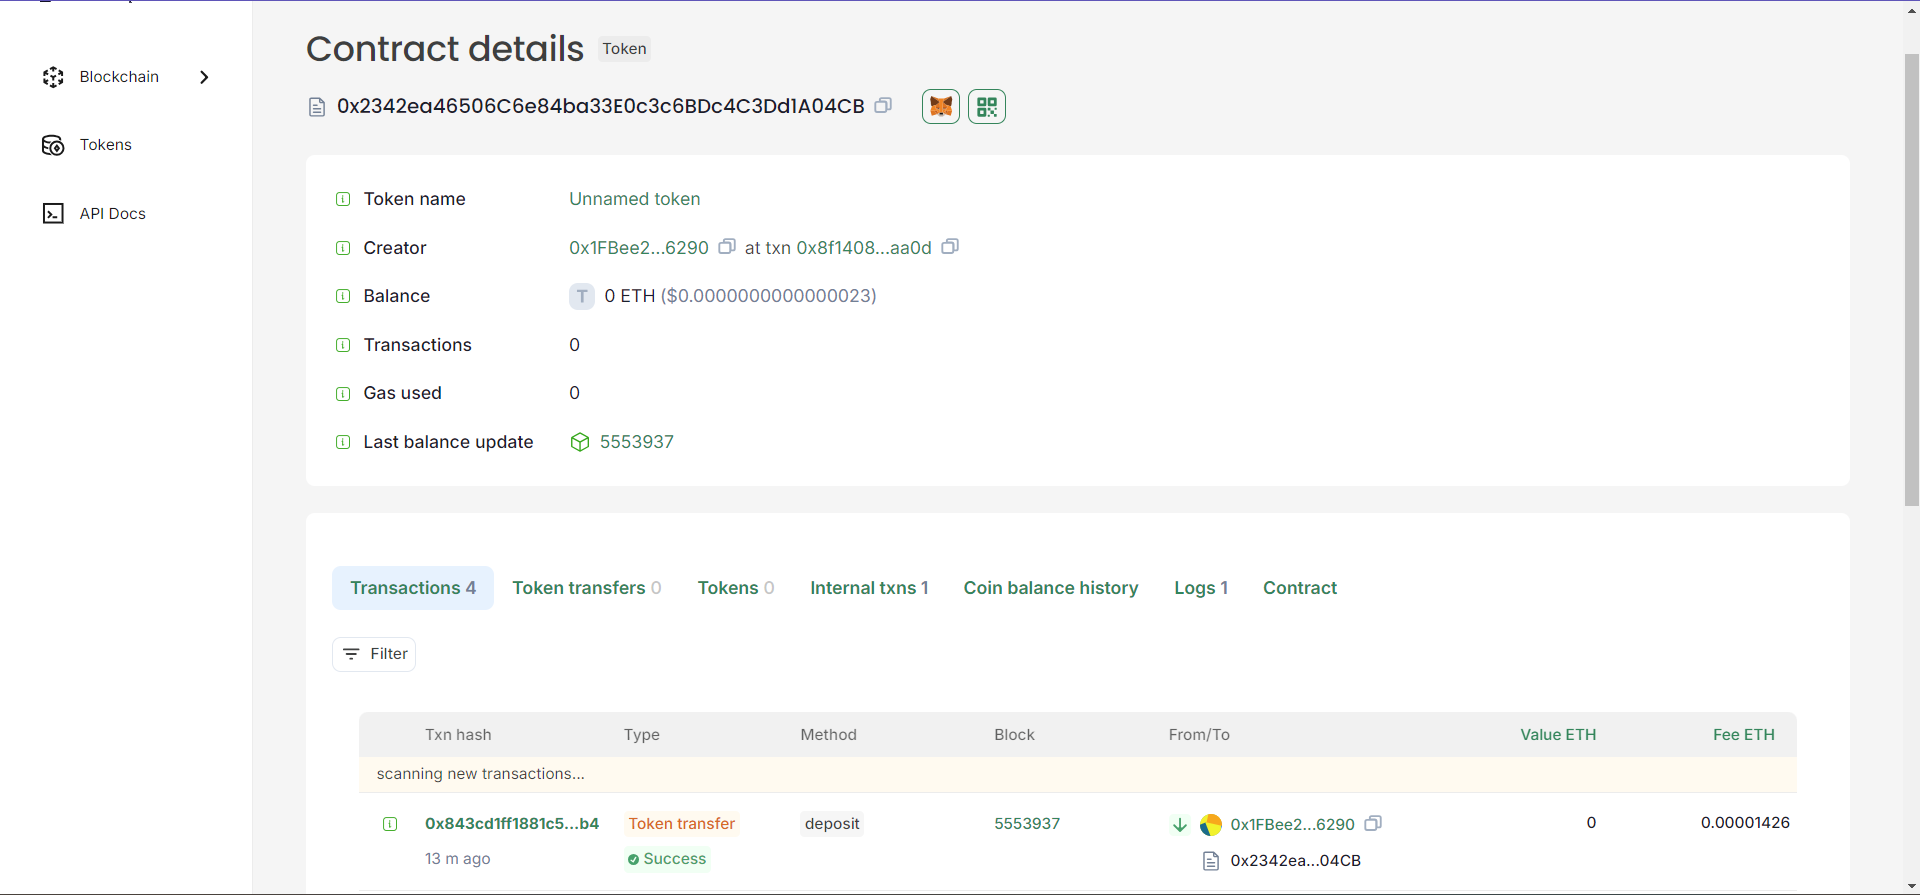
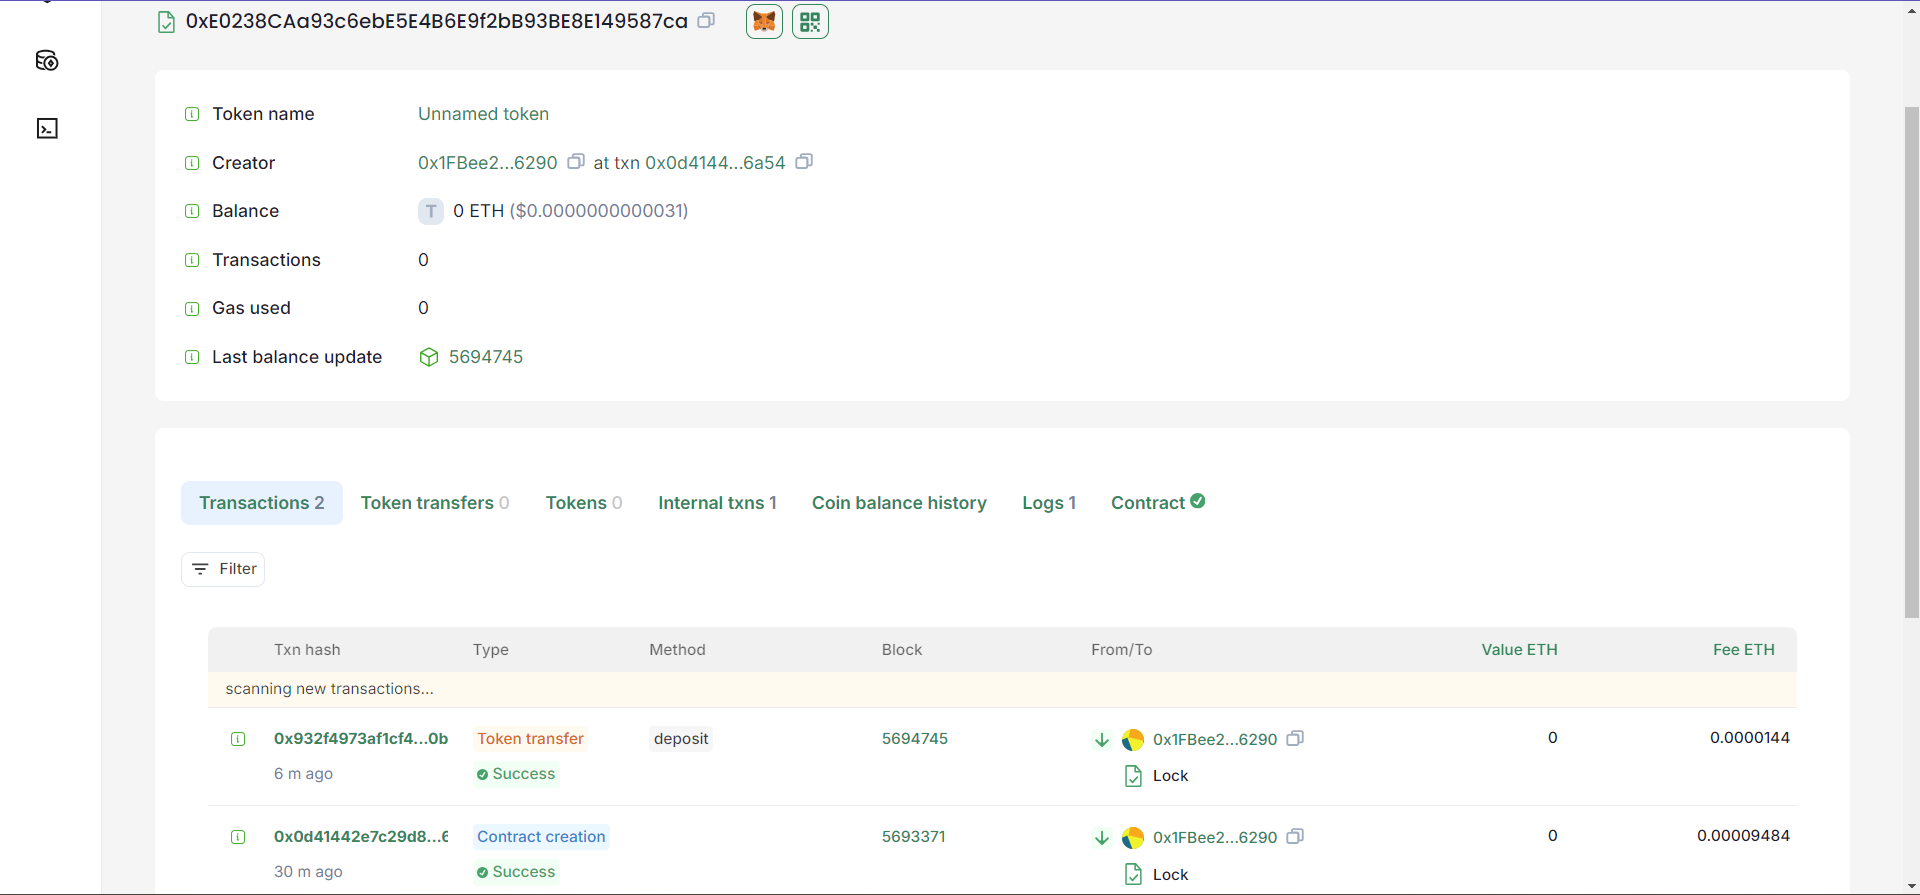
task8：fragrans-maotou

diff --git a/members/fragrans-maotou/task8/read.md b/members/fragrans-maotou/task8/read.md
@@ -5,12 +5,15 @@
 
 # 测试  
 
-Morph浏览器链接: https://explorer-holesky.morphl2.io/address/0x2342ea46506C6e84ba33E0c3c6BDc4C3Dd1A04CB
+Morph浏览器链接: https://explorer-holesky.morphl2.io/address/0xE0238CAa93c6ebE5E4B6E9f2bB93BE8E149587ca
 
 ![alt text](uploadContract.jpg)
 
+验证结果
 
-测试结果链接：https://explorer-holesky.morphl2.io/tx/0x843cd1ff1881c5f5dfa696d59b0b95f2f94edfcee1fd8922edd308528f61b482
+![alt text](verifyContract.jpg)
+
+测试结果链接：https://explorer-holesky.morphl2.io/tx/0x932f4973af1cf4ccebefabd03a5e0d663712cc78a08f38d12a13173dd2b60b74
 
 ![alt text](result.jpg)
 
